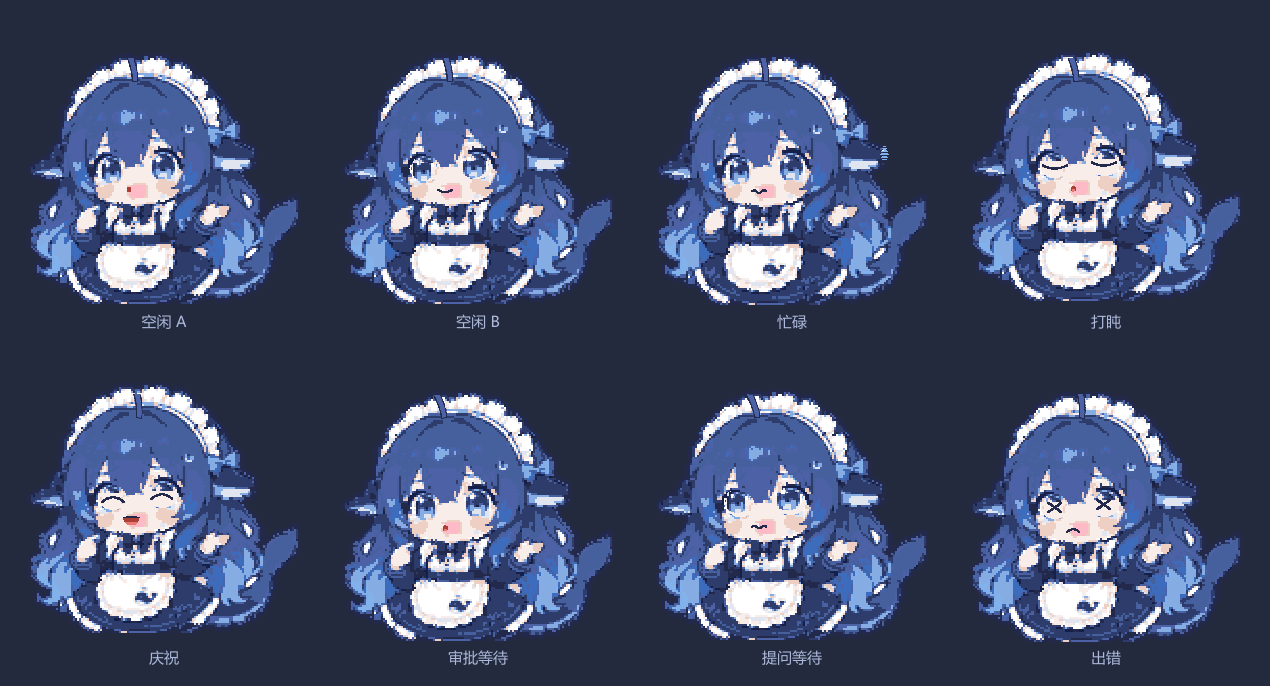
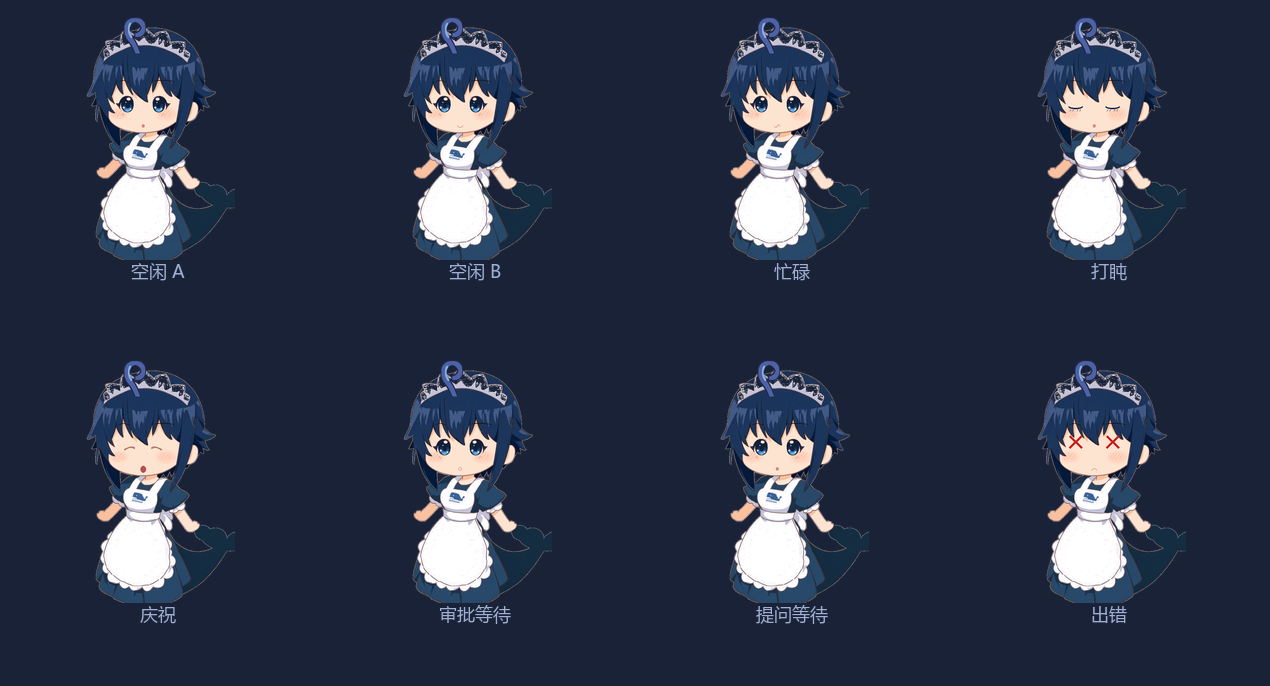
feat: 全新 2D 形象 —— AI 生成拆件重制（v1.1.0）
- base：mmx 参考生图（深蓝发/女仆装/鲸尾/裙摆 DeepSeek 鲸鱼 logo），PIL 抠图去底
- 呆毛：保留原始像素呆毛，底部裁 67px、右移 15px 适配新发型
- 眼睛：mmx 生成深蓝美瞳大眼（双高光），间距 70px 与脸部对齐；
  闭眼弧线+睫毛、笑眼弧线、大红 X X（45px）均与睁眼中心对齐
- 嘴：6 态简化小红唇（open/smile/wavy/o/big/frown）
- docs：hero/states/desktop 截图全部用新形象重新生成
- chore：.gitignore 排除临时脚本与生成目录

diff --git a/README.md b/README.md
@@ -2,7 +2,7 @@
 
 鲸港 WhaleHarbor 的**大白鲸娘桌面窗宠**：一只透明、置顶、不抢焦点的悬浮小鲸娘，实时反映 DeepSeek Harness（DSH）的工作状态。
 
-形象采用 **px-v42 像素画拆件 + CSS 纸片人动画**：原画拆成 13 个零件（底座/眼×4/嘴×6/呆毛/汗滴），底座擦除与表情件重组误差为 **0 像素**，动作全部由 CSS keyframes 驱动（呼吸、眨眼、呆毛摇摆、汗滴、蹦跳、抖动），60fps、缩放无损。
+形象采用 **2D 拆件 + CSS 纸片人动画**：原画拆成 13 个零件（底座/眼×4/嘴×6/呆毛/汗滴），底座擦除与表情件重组误差为 **0 像素**，动作全部由 CSS keyframes 驱动（呼吸、眨眼、呆毛摇摆、汗滴、蹦跳、抖动），60fps、缩放无损。
 
 ![鲸娘桌宠](docs/hero.png)
 
